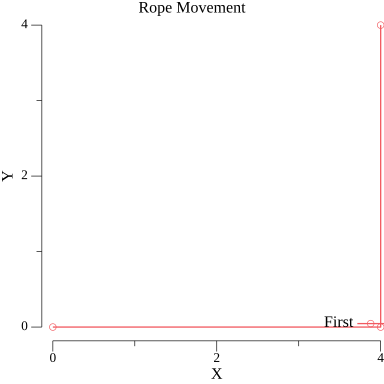
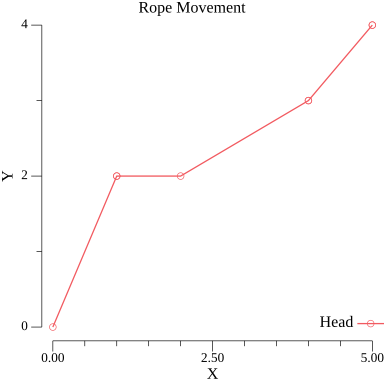
feat(day-9): well its plotting atleast

diff --git a/2022/day-9/main.go b/2022/day-9/main.go
@@ -83,56 +83,24 @@ func printGrid(grid [][]string) {
 }
 
 func populateGrid(options GridOptions) {
-	grid := make([][]string, options.yMax)
-
-	row := make([]string, options.xMax)
-	for i := 0; i < len(row); i++ {
-		row[i] = "."
-	}
-
-	for i := 0; i < len(grid); i++ {
-		grid[i] = row
-	}
-
-	printGrid(grid)
-
-	curPosX := 0 // 0 better?
-	curPosY := 0 // 0 better?
-
-	// Something is not looping like I want it here
-	for i := 0; i < len(options.xMotions); i++ {
-		curPosX = options.xMotions[i] - 1
-		curPosY = options.yMotions[i] - 1
-
-		grid[curPosY][curPosX] = "H"
-
-		printGrid(grid) // Something not quite right here
-	}
-}
-
-func main() {
-	// puzzleInput := Input("input-example.txt")
-	// gridOptions := Grid(puzzleInput)
-
-	// populateGrid(gridOptions)
-
 	p := plot.New()
 	p.Title.Text = "Rope Movement"
 	p.X.Label.Text = "X"
 	p.Y.Label.Text = "Y"
 
-	pts := make(plotter.XYs, 3)
-	pts[0].X = 0
-	pts[0].Y = 0
+	pts := make(plotter.XYs, len(options.xMotions))
 
-	pts[1].X = 4
-	pts[1].Y = 0
+	// Something is not looping like I want it here
+	for i := 0; i < len(options.xMotions); i++ {
+		positionX := float64(options.xMotions[i] - 1)
+		positionY := float64(options.yMotions[i] - 1)
 
-	pts[2].X = 4
-	pts[2].Y = 4
+		pts[i].X = positionX
+		pts[i].Y = positionY
+	}
 
 	err := plotutil.AddLinePoints(p,
-		"First", pts,
+		"Head", pts,
 	)
 	if err != nil {
 		panic(err)
@@ -141,4 +109,11 @@ func main() {
 	if err := p.Save(4*vg.Inch, 4*vg.Inch, "points.png"); err != nil {
 		panic(err)
 	}
+}
+
+func main() {
+	puzzleInput := Input("input-example.txt")
+	gridOptions := Grid(puzzleInput)
+
+	populateGrid(gridOptions)
 }
